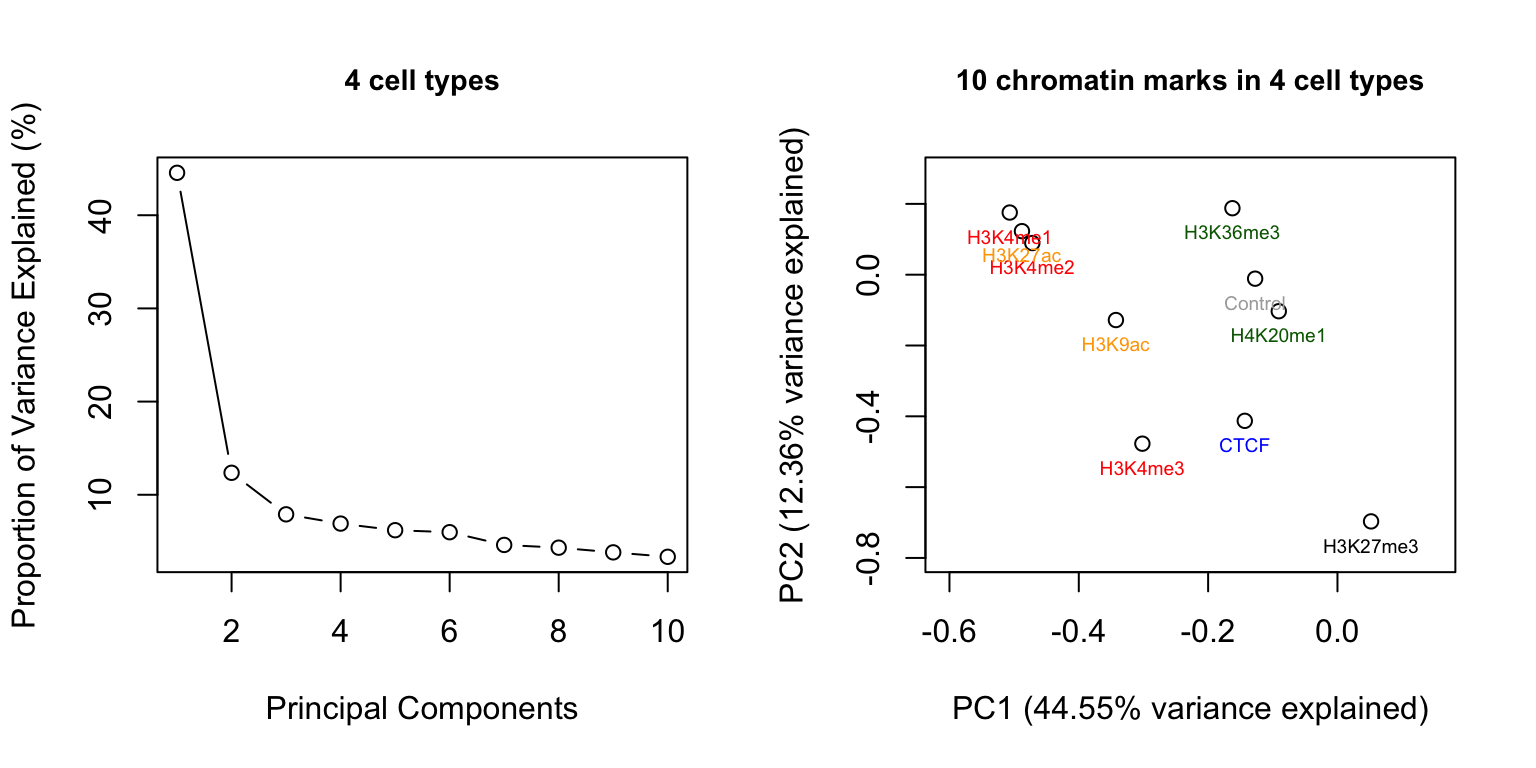
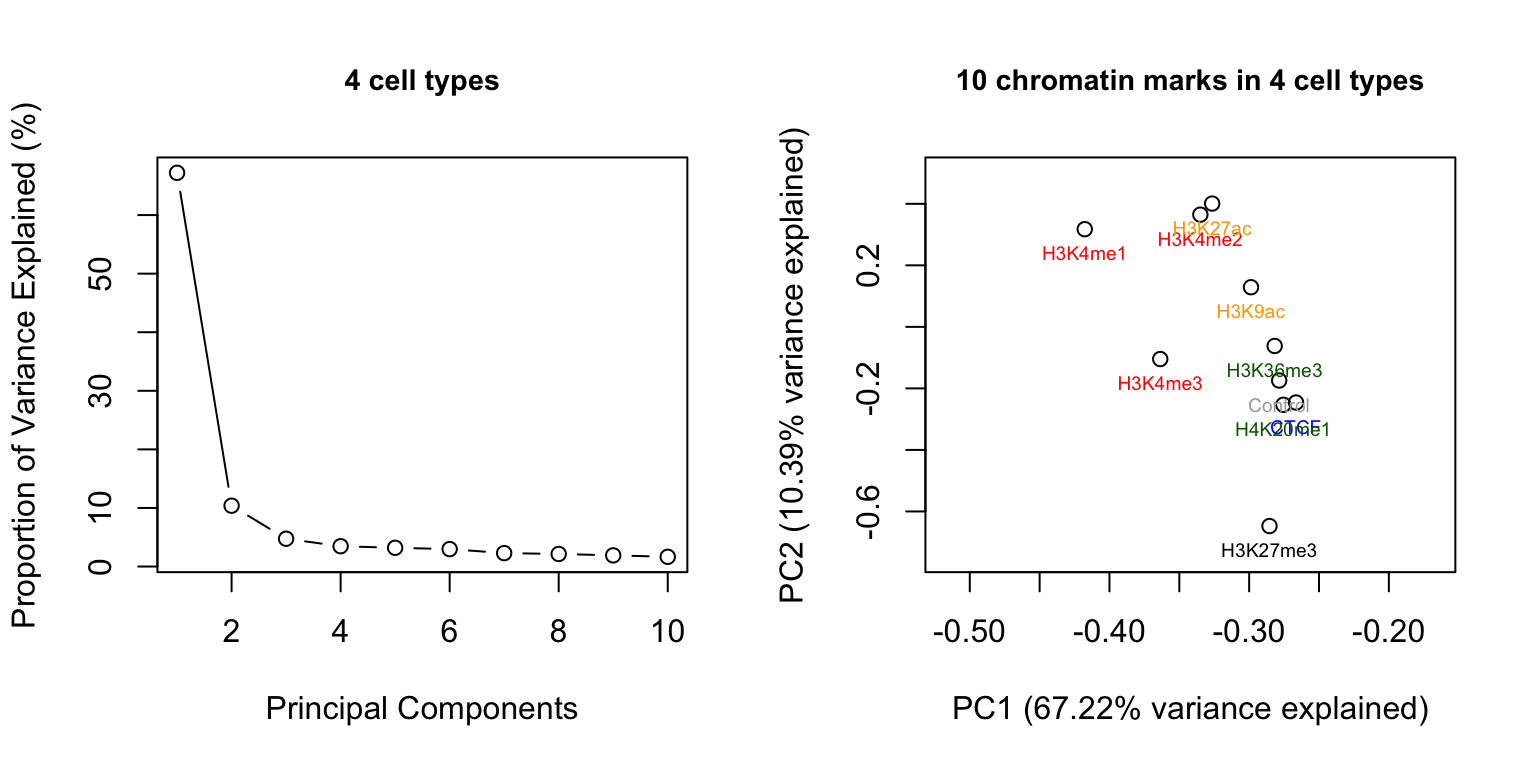
Build site.

diff --git a/docs/chrom_PCA_joint_cells.html b/docs/chrom_PCA_joint_cells.html
@@ -309,8 +309,8 @@ div.tocify {
 </div>
 
 
-<p><strong>Last updated:</strong> 2017-03-06</p>
-<p><strong>Code version:</strong> cffa1a3</p>
+<p><strong>Last updated:</strong> 2017-03-07</p>
+<p><strong>Code version:</strong> 39c0e59</p>
 <div id="load-data" class="section level2">
 <h2>Load data</h2>
 <pre><code>cell types: K562 GM12878 HUVEC NHLF </code></pre>
@@ -340,14 +340,15 @@ div.tocify {
 <pre class="r"><code># Inverse Hyperbolic Sine Transform
 data.m &lt;- asinh(count_marks_cells.m)
 
-cat(&#39;Centered, not scaled \n&#39;)</code></pre>
-<pre><code>Centered, not scaled </code></pre>
-<pre class="r"><code>prcomp_marks(data.m, &#39;4 cell types&#39;, center = T, scale = F, plot_scree = T)</code></pre>
+# Not centered, not scaled
+prcomp_marks(data.m, &#39;4 cell types&#39;, center = F, scale = F, plot_scree = T)</code></pre>
 <p><img src="figure/chrom_PCA_joint_cells.Rmd/PCA_joint-1.png" width="768" style="display: block; margin: auto;" /></p>
-<pre class="r"><code>cat(&#39;Centered and scaled \n&#39;)</code></pre>
-<pre><code>Centered and scaled </code></pre>
-<pre class="r"><code>prcomp_marks(data.m, &#39;4 cell types&#39;, center = T, scale = T, plot_scree = T)</code></pre>
+<pre class="r"><code># Centered, not scaled
+prcomp_marks(data.m, &#39;4 cell types&#39;, center = T, scale = F, plot_scree = T)</code></pre>
 <p><img src="figure/chrom_PCA_joint_cells.Rmd/PCA_joint-2.png" width="768" style="display: block; margin: auto;" /></p>
+<pre class="r"><code># Centered and scaled
+prcomp_marks(data.m, &#39;4 cell types&#39;, center = T, scale = T, plot_scree = T)</code></pre>
+<p><img src="figure/chrom_PCA_joint_cells.Rmd/PCA_joint-3.png" width="768" style="display: block; margin: auto;" /></p>
 </div>
 
 <hr>
